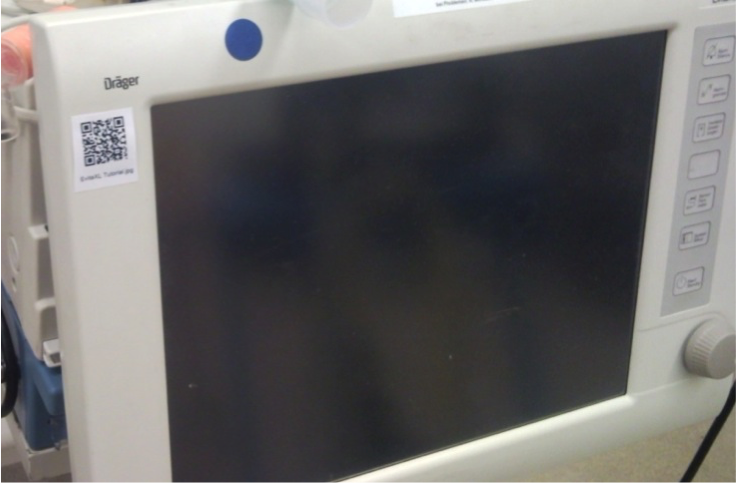
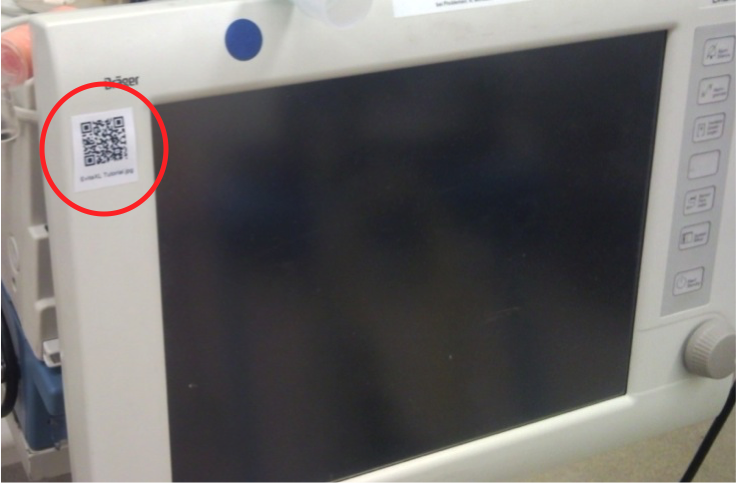
improved images with red circles for the qr codes and displayed them better on the page

Changed region(s): [[0.0312, 0.1553, 0.25, 0.4658]]

diff --git a/ventilator.html b/ventilator.html
@@ -24,6 +24,9 @@
 		<td><img src="./assets/img/lab2.png" style="height:40%;" alt="QR Code attached to a ventilator @ MD Pnp's lab"></td>
 		<td><img src="./assets/img/lab3.png" style="height:59%;" alt="QR Code attached to a ventilator @ MD Pnp's lab"></td>
 	</tr>
+	<tr>
+		<td colspan="3" style="text-align:center">As part of our research, we have placed QR codes to some of the devices in our lab, to illustrate and further investigate how a QR code attached to a medical device could point to useful online references that would be quickly available for a clinician.</td>
+	</tr>
 </table>
 	<h3>Resources</h3>
 	<ol>

diff --git a/index.html b/index.html
@@ -137,7 +137,8 @@ QR codes are placed in disposable items, to warn about a certain condition or to
 
 <p>To generate a QR code, type your text on the text box below and click enter</p>
 
-<p><input id="text" type="text" value="http://mdpnp.org" style="width:80%" />
+
+<p><input id="text" type="text" value="http://mdpnp.org" style="width:100%" />
 </p>
 
 <div id="qrcode"></div>
